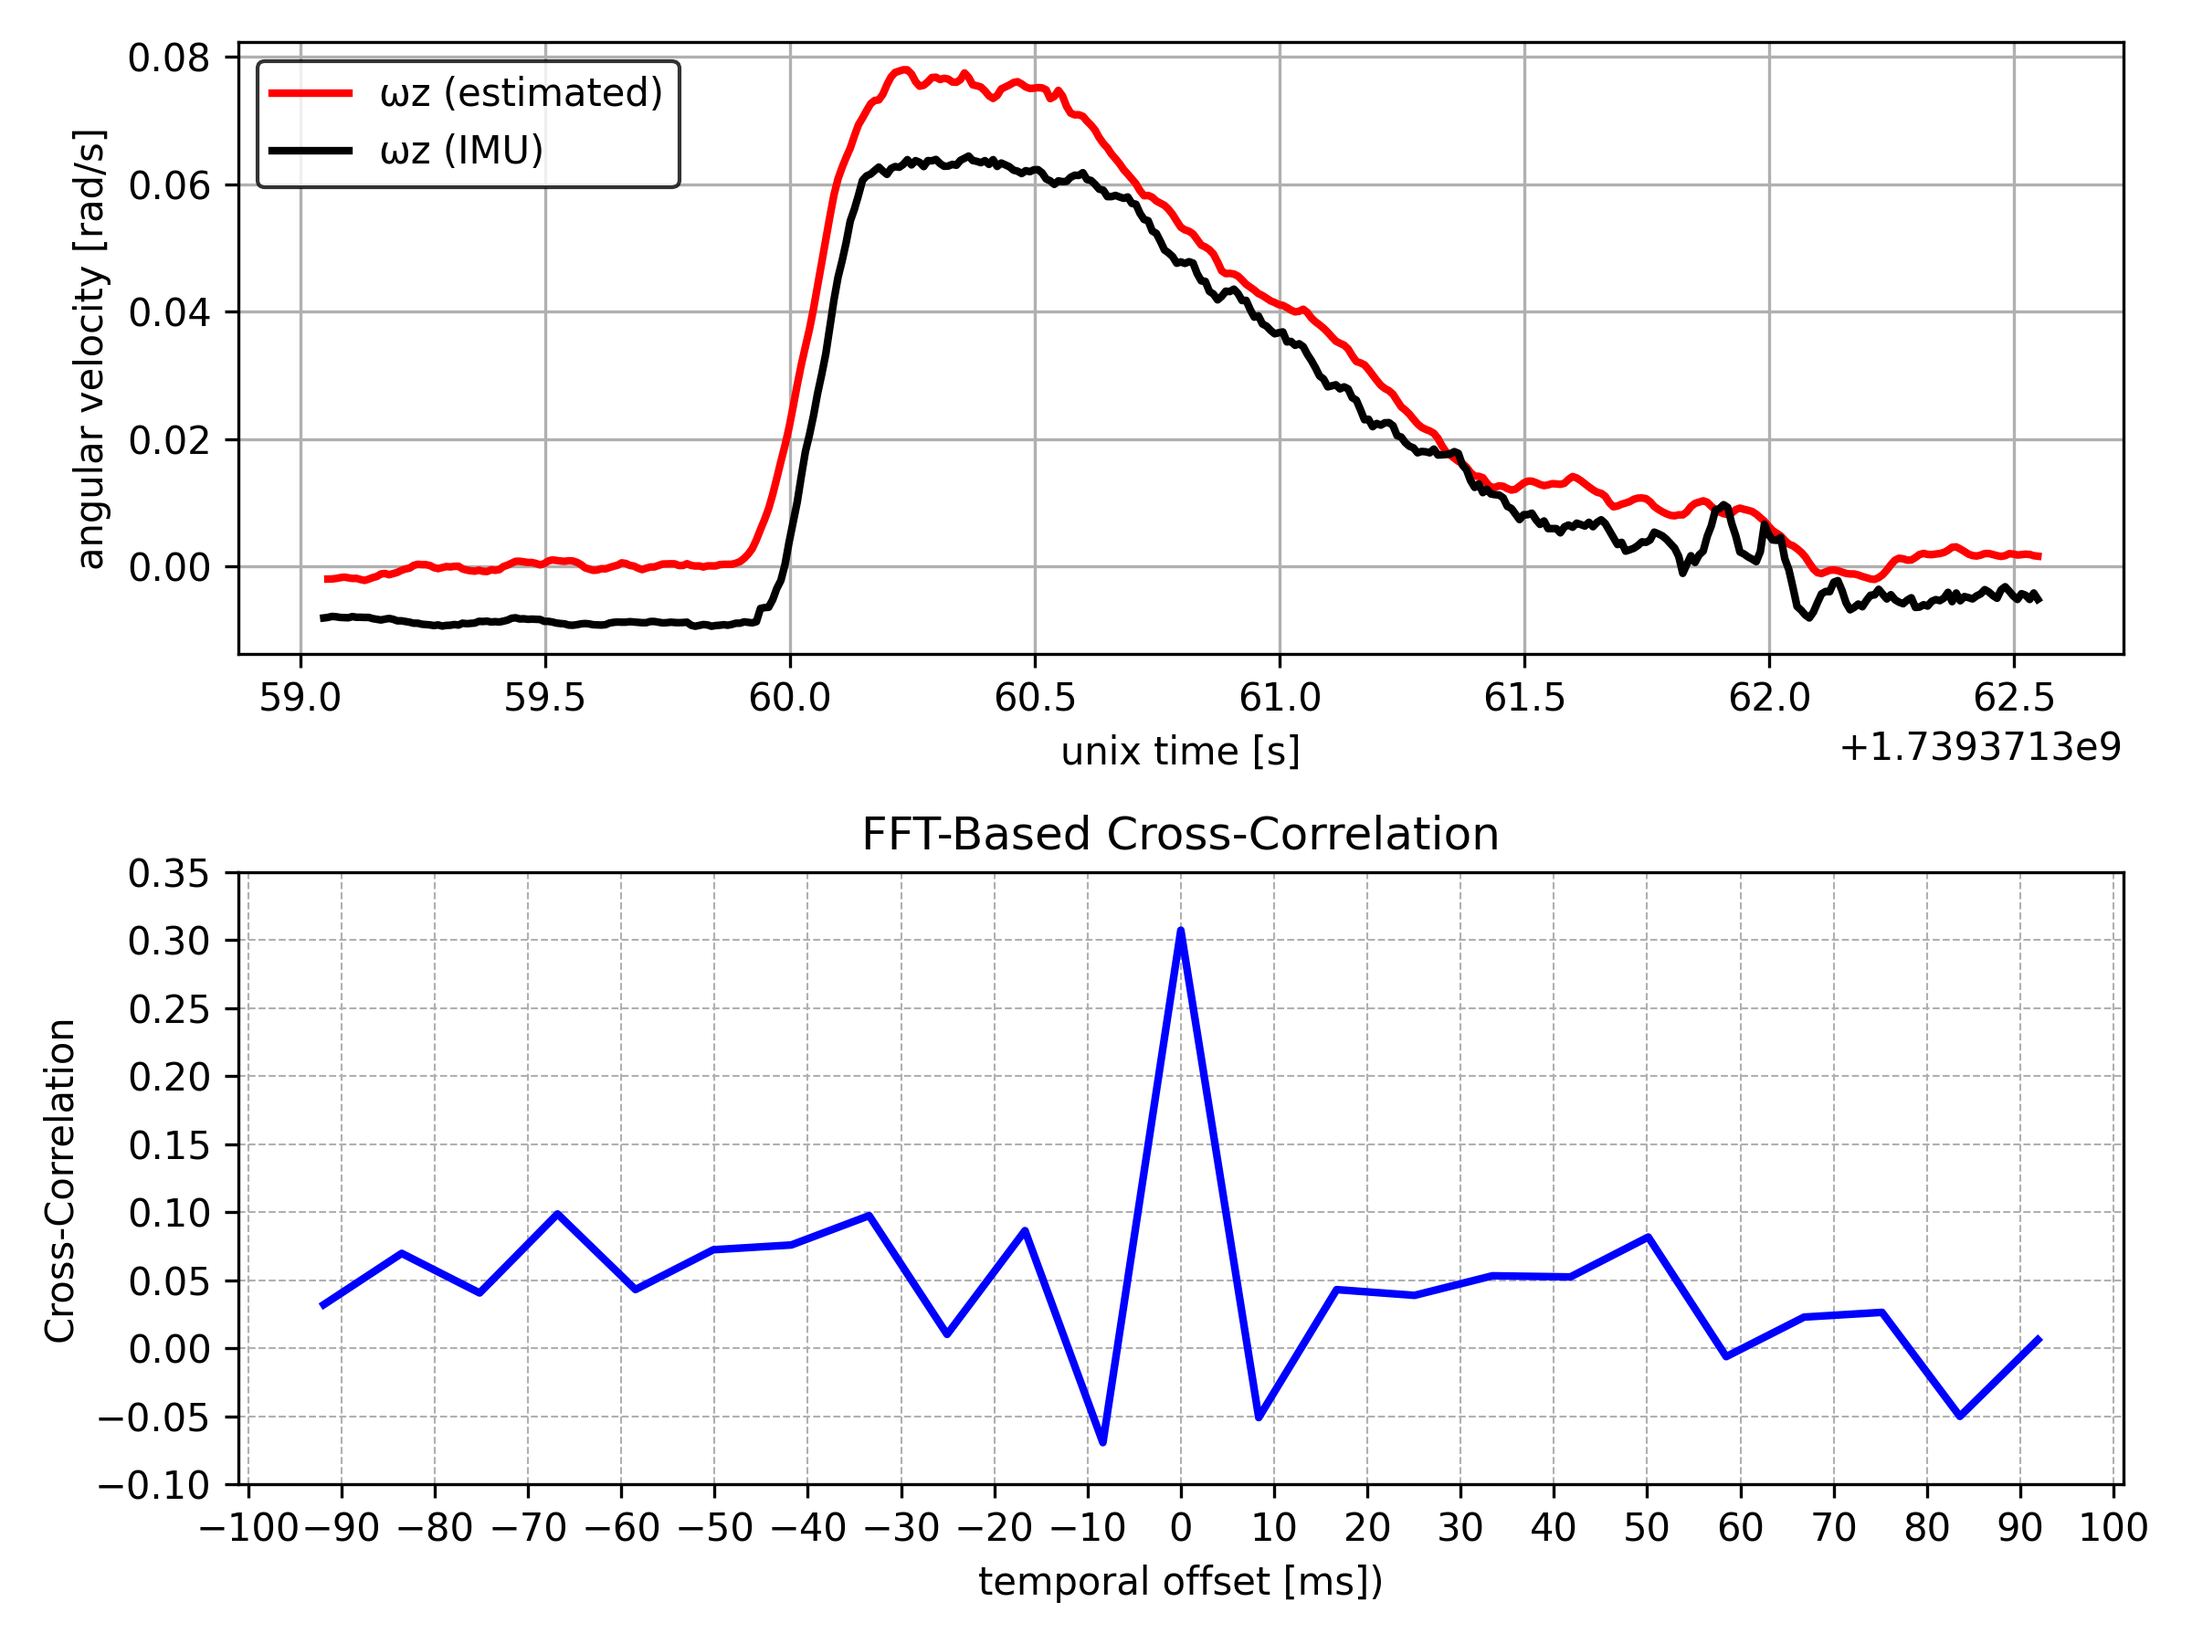
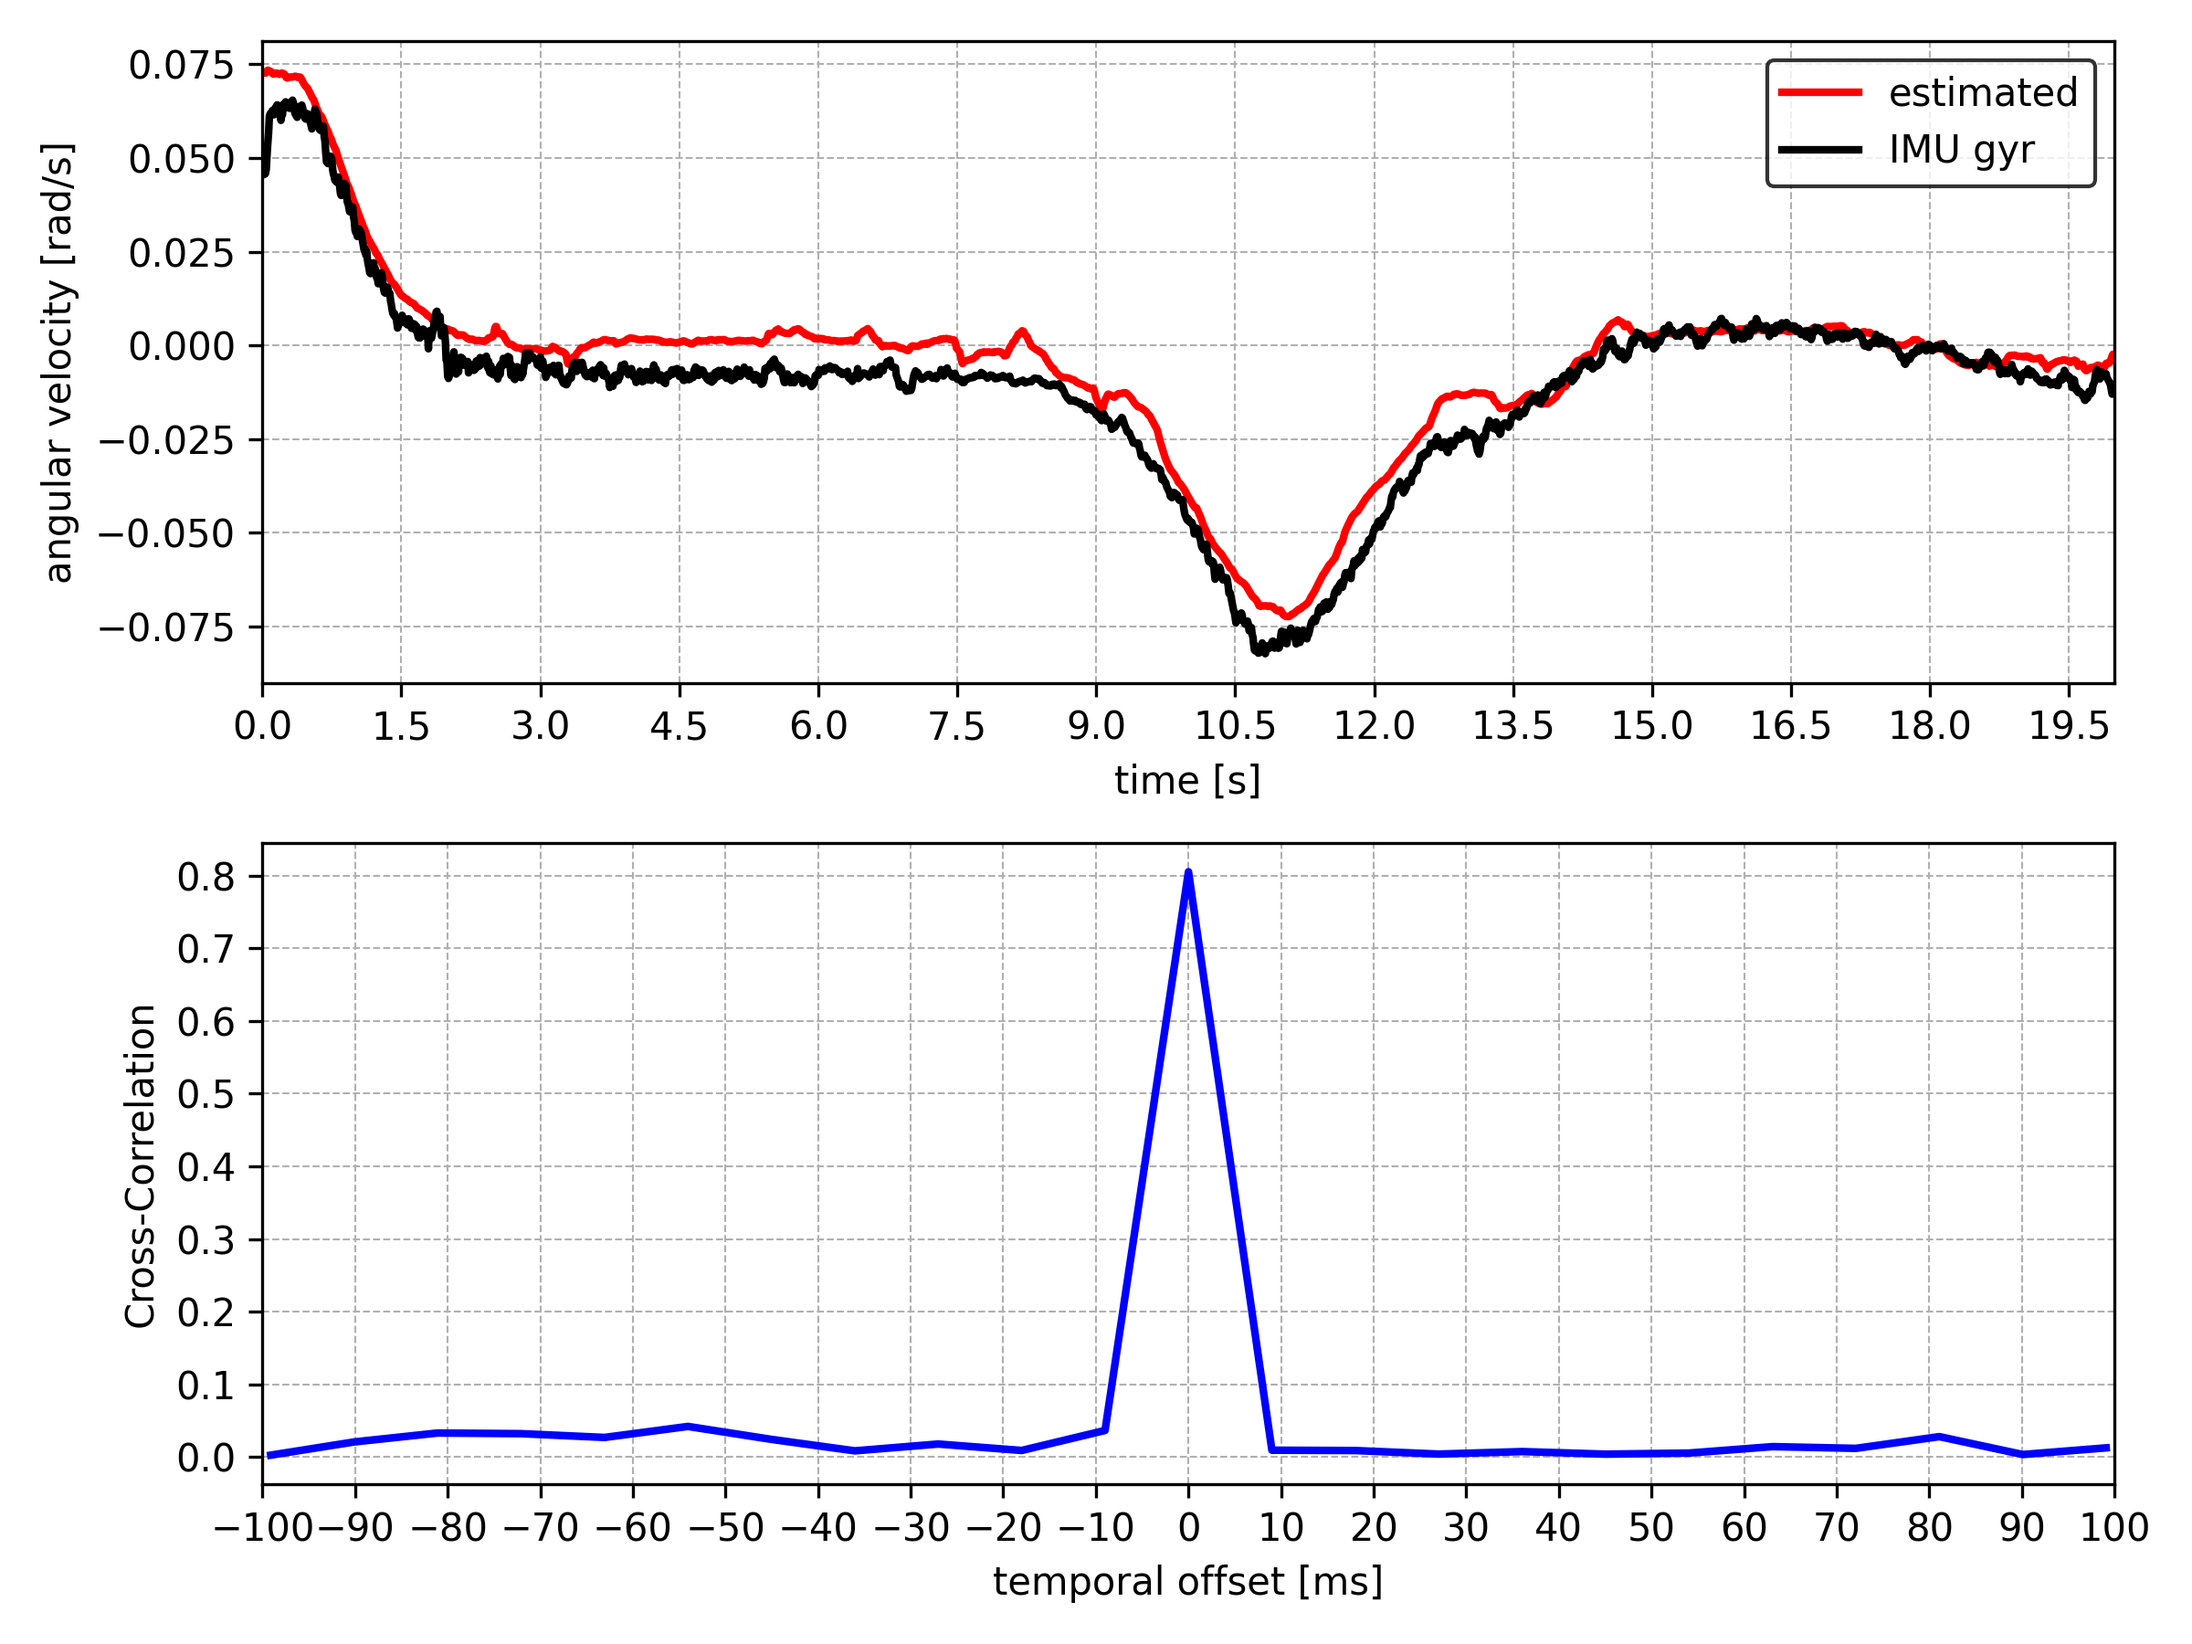
last update

diff --git a/csv-verification/2-visualizacion.py b/csv-verification/2-visualizacion.py
@@ -3,6 +3,7 @@ import argparse
 import os
 import matplotlib.pyplot as plt
 import numpy as np
+from mpl_toolkits.mplot3d import Axes3D
 
 def load_data(csv_file):
     # Read the CSV file, skipping metadata rows
@@ -20,82 +21,84 @@ def load_data(csv_file):
 
 def check_quaternions(data):
     # Check if quaternions are normalized
-    if 'qW' in data.columns and 'qX' in data.columns and 'qY' in data.columns and 'qZ' in data.columns:
+    if {'qW', 'qX', 'qY', 'qZ'}.issubset(data.columns):
         for index, row in data.iterrows():
             norm = (row['qX']**2 + row['qY']**2 + row['qZ']**2 + row['qW']**2)**0.5
             if abs(norm - 1) > 0.01:  # 1% tolerance
                 print(f"Warning: The quaternion in frame {row['Frame']} is not normalized.")
-
     else:
         print("No quaternions found in the file.")
 
-def plot_trajectory(data, folder_path):
-    # Extract positions X, Y, Z
-    x = np.array(data['X'])
-    y = np.array(data['Y'])
-    z = np.array(data['Z'])
+def plot_trajectory(data):
 
-    # 2D Plot (in a new figure)
-    fig2d = plt.figure(figsize=(8, 6))
-    plt.plot(x, y, label='2D Trajectory (XY)')
-    # Highlight the starting point
-    plt.plot(x[0], y[0], 'go', label='Start')  # Start point (green)
-    # Highlight the end point
-    plt.plot(x[-1], y[-1], 'ro', label='End')  # End point (red)
-    plt.xlabel('X')
-    plt.ylabel('Y')
-    plt.legend()
-    fig2d.suptitle('2D Trajectory', fontsize=14)  # Set the title of the window
-    fig2d.tight_layout()
-    # Save the 2D plot as a PNG
-    fig2d.savefig(os.path.join(folder_path, 'trajectory_2d.png'))
+    # Extraer posiciones X, Y, Z
+    x = data['X'].values
+    y = data['Y'].values
+    z = data['Z'].values
 
-    # 3D Plot (in a separate figure)
-    fig3d = plt.figure(figsize=(8, 6))
-    ax = fig3d.add_subplot(111, projection='3d')
-    ax.plot(x, y, z, label='3D Trajectory')
-    # Highlight the starting point
-    ax.scatter(x[0], y[0], z[0], color='green', s=100, label='Start')  # Start point (green)
-    # Highlight the end point
-    ax.scatter(x[-1], y[-1], z[-1], color='red', s=100, label='End')  # End point (red)
-    ax.set_xlabel('X')
-    ax.set_ylabel('Y')
-    ax.set_zlabel('Z')
-    plt.legend()
-    fig3d.suptitle('3D Trajectory', fontsize=14)  # Set the title of the window
-    fig3d.tight_layout()
-    # Save the 3D plot as a PNG
-    fig3d.savefig(os.path.join(folder_path, 'trajectory_3d.png'))
+    # Aplicar estilo limpio
+    plt.style.use("seaborn-v0_8-muted")
 
-    # Plot quaternion components (qX, qY, qZ, qW)
-    if 'qX' in data.columns and 'qY' in data.columns and 'qZ' in data.columns and 'qW' in data.columns:
-        frames = data['Frame'].values  # Convert to 1D array
-        qX = data['qX'].values  # Convert to 1D array
-        qY = data['qY'].values  # Convert to 1D array
-        qZ = data['qZ'].values  # Convert to 1D array
-        qW = data['qW'].values  # Convert to 1D array
+    # 2D Plot mejorado
+    plt.figure(figsize=(8, 6))
+    plt.gca().set_facecolor('white')  # Fondo blanco
+    plt.plot(x, y, color='navy', linewidth=2, alpha=0.8)
+    plt.xlabel('X [mm]', labelpad=5, fontsize=16)  # Agregar espacio extra para la etiqueta X
+    plt.ylabel('Y [mm]', labelpad=5, fontsize=16)  # Agregar espacio extra para la etiqueta Z
+    plt.grid(True, linestyle='--', alpha=0.6)
+    # Aumentar tamaño de las marcas de los ejes
+    plt.tick_params(axis='both', which='major', labelsize=14)
 
-        # Quaternion Components Plot (in a new figure)
-        fig_quaternions = plt.figure(figsize=(8, 6))
-        plt.plot(frames, qX, label='qX')
-        plt.plot(frames, qY, label='qY')
-        plt.plot(frames, qZ, label='qZ')
-        plt.plot(frames, qW, label='qW')
-        plt.xlabel('Frame')
-        plt.ylabel('Component')
-        plt.title('Quaternion Components vs Frames')
-        plt.legend()
+    # Guardar la figura 2D
+    plt.savefig("2D.png", dpi=300, bbox_inches='tight', transparent=False)
+    plt.clf()  # Limpiar la figura para la siguiente
 
-        # Add more ticks on the x-axis for better visibility
-        tick_positions = np.arange(0, len(frames), step=500)
-        plt.xticks(tick_positions, frames[tick_positions], rotation=45)  # Set the ticks with labels
+    # 3D Plot mejorado
+    fig = plt.figure(figsize=(8, 6))
+    fig.patch.set_facecolor('white')  # Fondo de la figura blanco
+    ax = fig.add_subplot(111, projection='3d')
 
-        fig_quaternions.suptitle('Quaternion Components', fontsize=14)  # Set the title of the window
-        fig_quaternions.tight_layout()
-        # Save the quaternion plot as a PNG
-        fig_quaternions.savefig(os.path.join(folder_path, 'quaternions.png'))
+    # Establecer las paredes 3D como blancas
+    ax.w_xaxis.pane.fill = False  # Desactiva el pane de color
+    ax.w_yaxis.pane.fill = False
+    ax.w_zaxis.pane.fill = False
 
-    plt.close('all')  # Close all figures to avoid memory overflow
+    ax.set_facecolor('white')  # Fondo blanco para el área de la gráfica
+
+    # Crear degradado de color
+    cmap = plt.get_cmap("viridis")
+    colors = cmap(np.linspace(0, 1, len(x)))
+
+    for i in range(len(x) - 1):
+        #ax.plot(x[i:i+2], y[i:i+2], z[i:i+2], color=colors[i], linewidth=2, alpha=0.9)
+        #ax.plot(x[i:i+2], z[i:i+2], y[i:i+2], color=colors[i], linewidth=2, alpha=0.9)  #tr
+        ax.plot(z[i:i+2], x[i:i+2],y[i:i+2], color=colors[i], linewidth=2, alpha=0.9) #tt y tr
+
+    # Ajustar etiquetas con espacio adicional para evitar corte
+    ax.set_xlabel('Z [mm]', labelpad=8, fontsize=14)
+    ax.set_ylabel('X [mm]', labelpad=8, fontsize=14)
+    ax.set_zlabel('Y [mm]', labelpad=8, fontsize=14)
+    # Aumentar tamaño de las marcas de los ejes
+    plt.tick_params(axis='both', which='major', labelsize=12)
+
+    # Ajustar el espaciado de los ticks en 3D (tr)
+    #ax.set_yticks(np.arange(-100, 501, step=100))
+    #ax.set_xticks(np.arange(-300, -700, step=-100))
+    #ax.set_zticks(np.arange(950, 1351, step=100))
+    
+    # Ajustar el espaciado de los ticks en 3D (tt)
+    ax.set_yticks(np.arange(50, 501, step=100))
+    ax.set_xticks(np.arange(-651, -250, step=100))
+    ax.set_zticks(np.arange(950, 1351, step=100))
+
+    # Ajustar vista para mejor percepción de la trayectoria
+    ax.view_init(elev=20, azim=125)
+
+    # Guardar la figura 3D
+    plt.savefig("3D.png", dpi=300, transparent=False)
+    plt.clf()  # Limpiar la figura para evitar superposición
+
+
 
 def main():
     parser = argparse.ArgumentParser(description="Analysis of OptiTrack position and rotation data")
@@ -103,18 +106,14 @@ def main():
     args = parser.parse_args()
 
     # Path to the CSV file
-    folder_path = f'/Volumes/SSD/archivos/KUKA_notebook/dev/environment_modeling/ROSBAGS/{args.input}/'
-    #folder_path = f'/home/samuel/dev/environment_modeling/ROSBAGS/{args.input}/'
-    csv_file = os.path.join(folder_path, f'{args.input}.csv')
+    folder_path = f'/Volumes/SSD/archivos/KUKA_dev/environment_modeling/ROSBAGS/{args.input}/'
+    csv_file = os.path.join(folder_path, 'groundtruth_raw.csv')
 
     # Load the data
     data = load_data(csv_file)
     if data is not None:
-        # Check quaternions
         check_quaternions(data)
-
-        # Plot the trajectories and orientations, and save the figures
-        plot_trajectory(data, folder_path)
+        plot_trajectory(data)
 
 if __name__ == "__main__":
     main()

diff --git a/post_processing/sync.py b/post_processing/sync.py
@@ -153,14 +153,15 @@ def plot_data(synchronized_data):
     ])
 
     # Window size for smoothing filter
-    window_size = 20
+    window_size_est = 80
+    window_size_imu = 15
 
     # Define start time as 11 seconds after the first timestamp
-    start_time = synchronized_data['timestamp'].min() + 11
+    start_time = synchronized_data['timestamp'].min() + 12
     synchronized_data = synchronized_data[synchronized_data['timestamp'] >= start_time]
 
-    # Limit visualization to 3 seconds
-    max_time = start_time + 3.5
+    # Limit visualization to 3.5 seconds
+    max_time = start_time + 20
     synchronized_data = synchronized_data[synchronized_data['timestamp'] <= max_time]
 
     ### Angular velocity estimation
@@ -172,8 +173,8 @@ def plot_data(synchronized_data):
     angular_velocities_coord_imu = np.dot(transformation_matrix.T, angular_velocities.T).T
 
     # Apply smoothing filter
-    angular_velocities_coord_imu_smooth = uniform_filter1d(angular_velocities_coord_imu[:, 0], size=window_size)
-    gyro_smooth = uniform_filter1d(synchronized_data['gyro_x'], size=window_size)
+    angular_velocities_coord_imu_smooth = uniform_filter1d(angular_velocities_coord_imu[:, 0], size=window_size_est)
+    gyro_smooth = uniform_filter1d(synchronized_data['gyro_x'], size=window_size_imu)
 
     ### Compute time step (sampling interval)
     time_step = np.mean(np.diff(timestamps))  # Average time step in seconds
@@ -184,17 +185,32 @@ def plot_data(synchronized_data):
     # Convertir desfase a milisegundos
     delay_ms = (delay_samples) * time_step_ms
 
+    # Ajustar el tiempo para que comience desde cero
+    time_relative = timestamps[1:] - timestamps[1]
+    time_imu_relative = synchronized_data['timestamp'] - synchronized_data['timestamp'].iloc[0]
+
+
+
     ### Plot results
     fig, (ax1, ax2) = plt.subplots(2, 1, figsize=(8, 6))
-
     # Plot angular velocity
-    ax1.plot(timestamps[1:], angular_velocities_coord_imu_smooth, label='ωz (estimated)', color='r', linestyle='-', linewidth=2)
-    ax1.plot(synchronized_data['timestamp'], gyro_smooth, label='ωz (IMU)', color='black', linestyle='-', linewidth=2)
+        # Plot angular velocity
+    ax1.plot(time_relative, angular_velocities_coord_imu_smooth, label='estimated', color='r', linestyle='-', linewidth=2)
+    ax1.plot(time_imu_relative, gyro_smooth, label='IMU gyr', color='black', linestyle='-', linewidth=2)
+    #ax1.plot(timestamps[1:], angular_velocities_coord_imu_smooth, label='estimated', color='r', linestyle='-', linewidth=2)
+    #ax1.plot(synchronized_data['timestamp'], gyro_smooth, label='IMU', color='black', linestyle='-', linewidth=2)
 
-    ax1.set_xlabel('unix time [s]')
+    ax1.set_xlabel('time [s]')
     ax1.set_ylabel('angular velocity [rad/s]')
     # Agregar leyenda con fondo blanco y borde negro
-    ax1.legend(facecolor='white', edgecolor='black', loc='upper left')
+    ax1.legend(facecolor='white', edgecolor='black', loc='upper right')
+    # Definir los ticks del eje X cada 2 segundos
+    ax1.set_xticks(np.arange(0, max(time_relative), 1.5))
+    # Establecer los límites del eje X
+    ax1.set_xlim([0, max(time_relative)])
+
+    ax1.grid(True, which='both', linestyle='--', linewidth=0.5)  # 'both' activa grilla menor y mayor
+
 
     #ax1.set_title('Angular Velocity on')
     ax1.grid(True)
@@ -209,18 +225,19 @@ def plot_data(synchronized_data):
     # Filtrar los valores dentro del rango deseado
     valid_indices = (lags >= min_lag_ms) & (lags <= max_lag_ms)
     lags_filtered = lags[valid_indices]
-    cross_corr_filtered = cross_corr[valid_indices]
+    cross_corr_filtered = abs(cross_corr[valid_indices])
 
     # Graficar la correlación cruzada en el rango limitado
     ax2.plot(lags_filtered, cross_corr_filtered, color='blue', linewidth=2)
     #ax2.axvline(x=delay_ms, color='red', linestyle='--', label=f'Estimated Delay: {delay_ms:.2f} ms')
     # Establecer las marcas de los ejes X y Y con los intervalos deseados
     ax2.set_xticks(np.arange(min_lag_ms, max_lag_ms + 1, 10))  # Intervalo de 10 ms para el eje X
-    ax2.set_yticks(np.arange(-0.1, 0.4, 0.05))  # Intervalo de 0.01 para el eje Y
+    ax2.set_yticks(np.arange(0, max(cross_corr_filtered), 0.1))  # Intervalo de 0.01 para el eje Y
+    ax2.set_xlim([min_lag_ms, max_lag_ms])
 
-    ax2.set_xlabel('temporal offset [ms])')
+    ax2.set_xlabel('temporal offset [ms]')
     ax2.set_ylabel('Cross-Correlation')
-    ax2.set_title('FFT-Based Cross-Correlation')
+
     ax2.grid(True, which='both', linestyle='--', linewidth=0.5)  # 'both' activa grilla menor y mayor
 
     plt.tight_layout()
